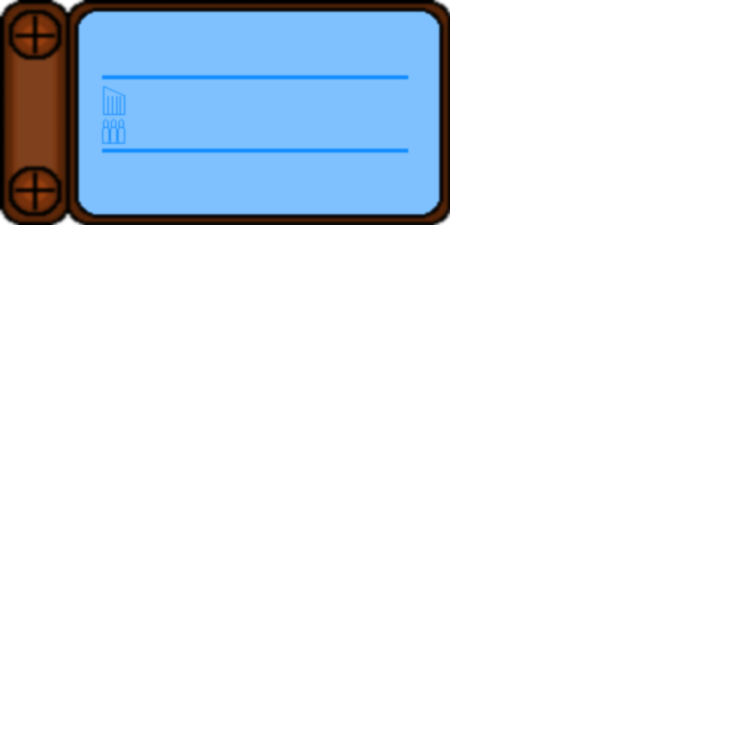
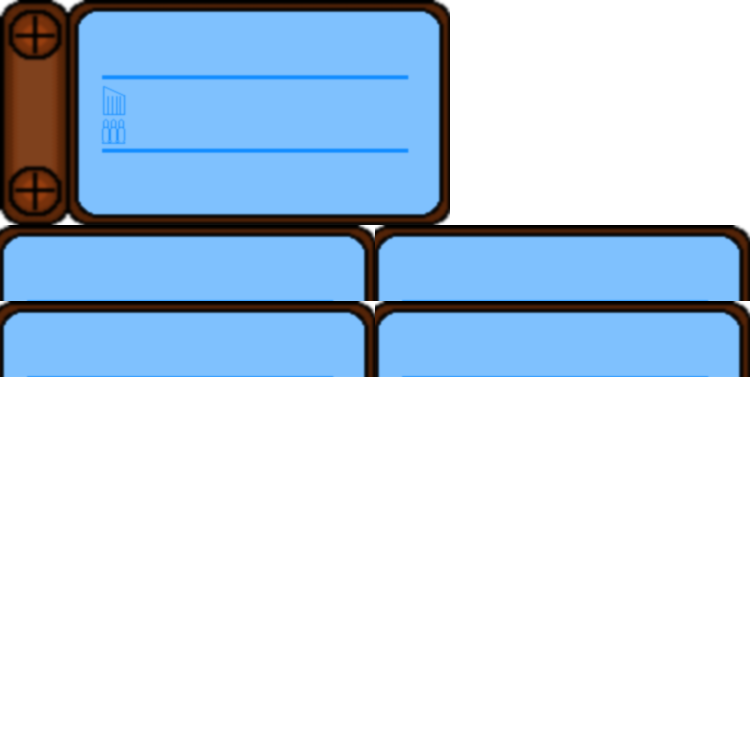
wepondisplay valmis

Changed region(s): [[0.0, 0.276, 1.0, 0.5213]]

diff --git a/src/game/world/gui/hud/WeaponDisplay.java b/src/game/world/gui/hud/WeaponDisplay.java
@@ -22,9 +22,10 @@ import Weapon.Weapon;
 import blender.model.Texture;
 
 public class WeaponDisplay extends HudComponent{
-	Weapon weapon;
+	private Weapon weapon;
 	private float x;
 	private boolean textured = false;
+	private int id;
 
 	public WeaponDisplay(Weapon weapon){
 		this.weapon = weapon;		
@@ -59,14 +60,14 @@ public class WeaponDisplay extends HudComponent{
 			RenderThread.spritesheet.getUpLeftCoordNormal(1)[0],
 			RenderThread.spritesheet.getUpLeftCoordNormal(1)[1],
 			
-			RenderThread.spritesheet.getBottomLeftCoordNormal(2)[0],
-			RenderThread.spritesheet.getBottomLeftCoordNormal(2)[1],
-			RenderThread.spritesheet.getBottomRightCoordNormal(6)[0],
-			RenderThread.spritesheet.getBottomRightCoordNormal(6)[1],
-			RenderThread.spritesheet.getUpRightCoordNormal(6)[0],
-			RenderThread.spritesheet.getUpRightCoordNormal(6)[1],
-			RenderThread.spritesheet.getUpLeftCoordNormal(2)[0],
-			RenderThread.spritesheet.getUpLeftCoordNormal(2)[1],
+			RenderThread.spritesheet.getBottomLeftCoordNormal(weapon.getTexture().x)[0],
+			RenderThread.spritesheet.getBottomLeftCoordNormal(weapon.getTexture().x)[1],
+			RenderThread.spritesheet.getBottomRightCoordNormal(weapon.getTexture().y)[0],
+			RenderThread.spritesheet.getBottomRightCoordNormal(weapon.getTexture().y)[1],
+			RenderThread.spritesheet.getUpRightCoordNormal(weapon.getTexture().y)[0],
+			RenderThread.spritesheet.getUpRightCoordNormal(weapon.getTexture().y)[1],
+			RenderThread.spritesheet.getUpLeftCoordNormal(weapon.getTexture().x)[0],
+			RenderThread.spritesheet.getUpLeftCoordNormal(weapon.getTexture().x)[1],
 			
 			RenderThread.spritesheet.getBottomLeftCoordNormal(12)[0],
 			RenderThread.spritesheet.getBottomLeftCoordNormal(12)[1],
@@ -121,7 +122,9 @@ public class WeaponDisplay extends HudComponent{
 
 	@Override
 	public void update() {
-		// TODO Auto-generated method stub
+		if(id != weapon.getID()){
+			setTexture();
+		}
 		
 	}
 

diff --git a/src/Weapon/Laser.java b/src/Weapon/Laser.java
@@ -1,11 +1,14 @@
 package Weapon;
 
+import utils.math.Vector2i;
+
 public class Laser implements Weapon{
 	private int Ammo;
 	private int MaxAmmo;
 	private int ClipCount;
 	private int MaxClips;
-	private String texture = "res/models/hud/HUD2.png";
+	private int id;
+	private Vector2i texture = new Vector2i(32,35);
 	
 	public Laser(){
 		Ammo = 100;
@@ -15,7 +18,7 @@ public class Laser implements Weapon{
 	}
 
 	@Override
-	public String getTexture() {
+	public Vector2i getTexture() {
 		return texture;
 	}
 
@@ -69,6 +72,11 @@ public class Laser implements Weapon{
 		if(Ammo > 0){
 			Ammo --;
 		}
+	}
+
+	@Override
+	public int getID() {
+		return id;
 	}
 
 }

diff --git a/src/Weapon/Weapon.java b/src/Weapon/Weapon.java
@@ -1,7 +1,10 @@
 package Weapon;
 
+import utils.math.Vector2i;
+
 public interface Weapon {
-	public String getTexture();
+	public Vector2i getTexture();
+	public int getID();
 	
 	//Laskemoon
 	public int getAmmo();

diff --git a/src/utils/math/Vector2i.java b/src/utils/math/Vector2i.java
@@ -1,0 +1,12 @@
+package utils.math;
+
+public class Vector2i {
+	public int x;
+	public int y;
+	
+	public Vector2i(int x, int y) {
+		super();
+		this.x = x;
+		this.y = y;
+	}
+}
